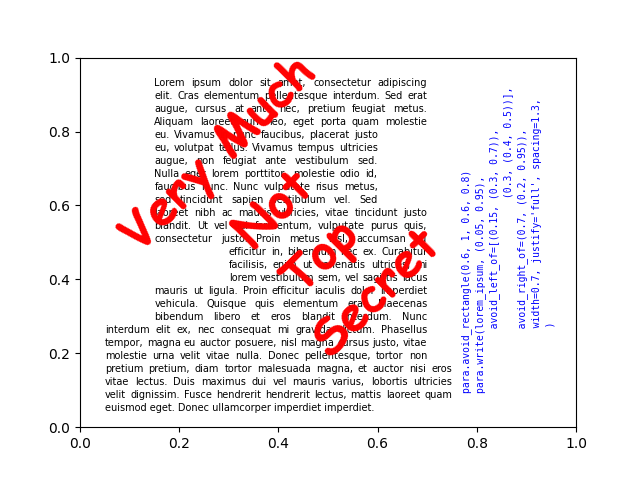
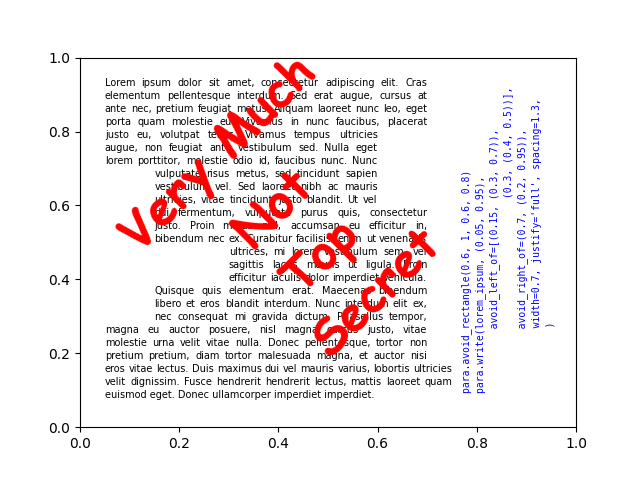
corrected bug of initializing before adding rectangle areas... it was leaving first border out

Changed region(s): [[0.1562, 0.1562, 0.7188, 0.875]]

diff --git a/parampl/core.py b/parampl/core.py
@@ -11,6 +11,9 @@ __all__ = ['ParaMPL', 'avoid_specification', 'avoid_single_specification']
 
 
 class _line_position:
+    def __repr__(self):
+        return f"Line's position currently at {self.x}, {self.y}: borders: {self.borders}"
+
     def __init__(self,
                  xy,
                  width, height,
@@ -75,6 +78,7 @@ class _line_position:
             self.borders = parse_avoid(self.borders, avoid_left_of, avoid_right_of, self.height)
 
             self.check_next_border(force=initialize)
+            pass
 
     def offset(self,
                offset: float = 0,
@@ -349,7 +353,6 @@ Write text into a paragraph, storing word length in dictionary cache. Return a l
         lp = _line_position(xy, width, height,
                             rotation, spacing, ha, justify,
                             y_to_x_ratio=get_aspect(ax))
-        lp.add_avoids(avoid_left_of, avoid_right_of, initialize=True)
 
         # add rectangles to avoid if orientation and alignment is adequate
         if va == 'top' and rotation == 0 and ha == 'left':
@@ -358,6 +361,8 @@ Write text into a paragraph, storing word length in dictionary cache. Return a l
         # if orientation is not adequate, but avoid is specified raise error
         elif avoid_left_of is not None or avoid_right_of is not None:
             raise ValueError("if using avoid areas, then va='top', ha='left', and rotation=0 are required")
+
+        lp.add_avoids(avoid_left_of, avoid_right_of, initialize=True)
 
         # separate and process paragraphs one at a time.
         paragraphs = split_into_paragraphs(text,
